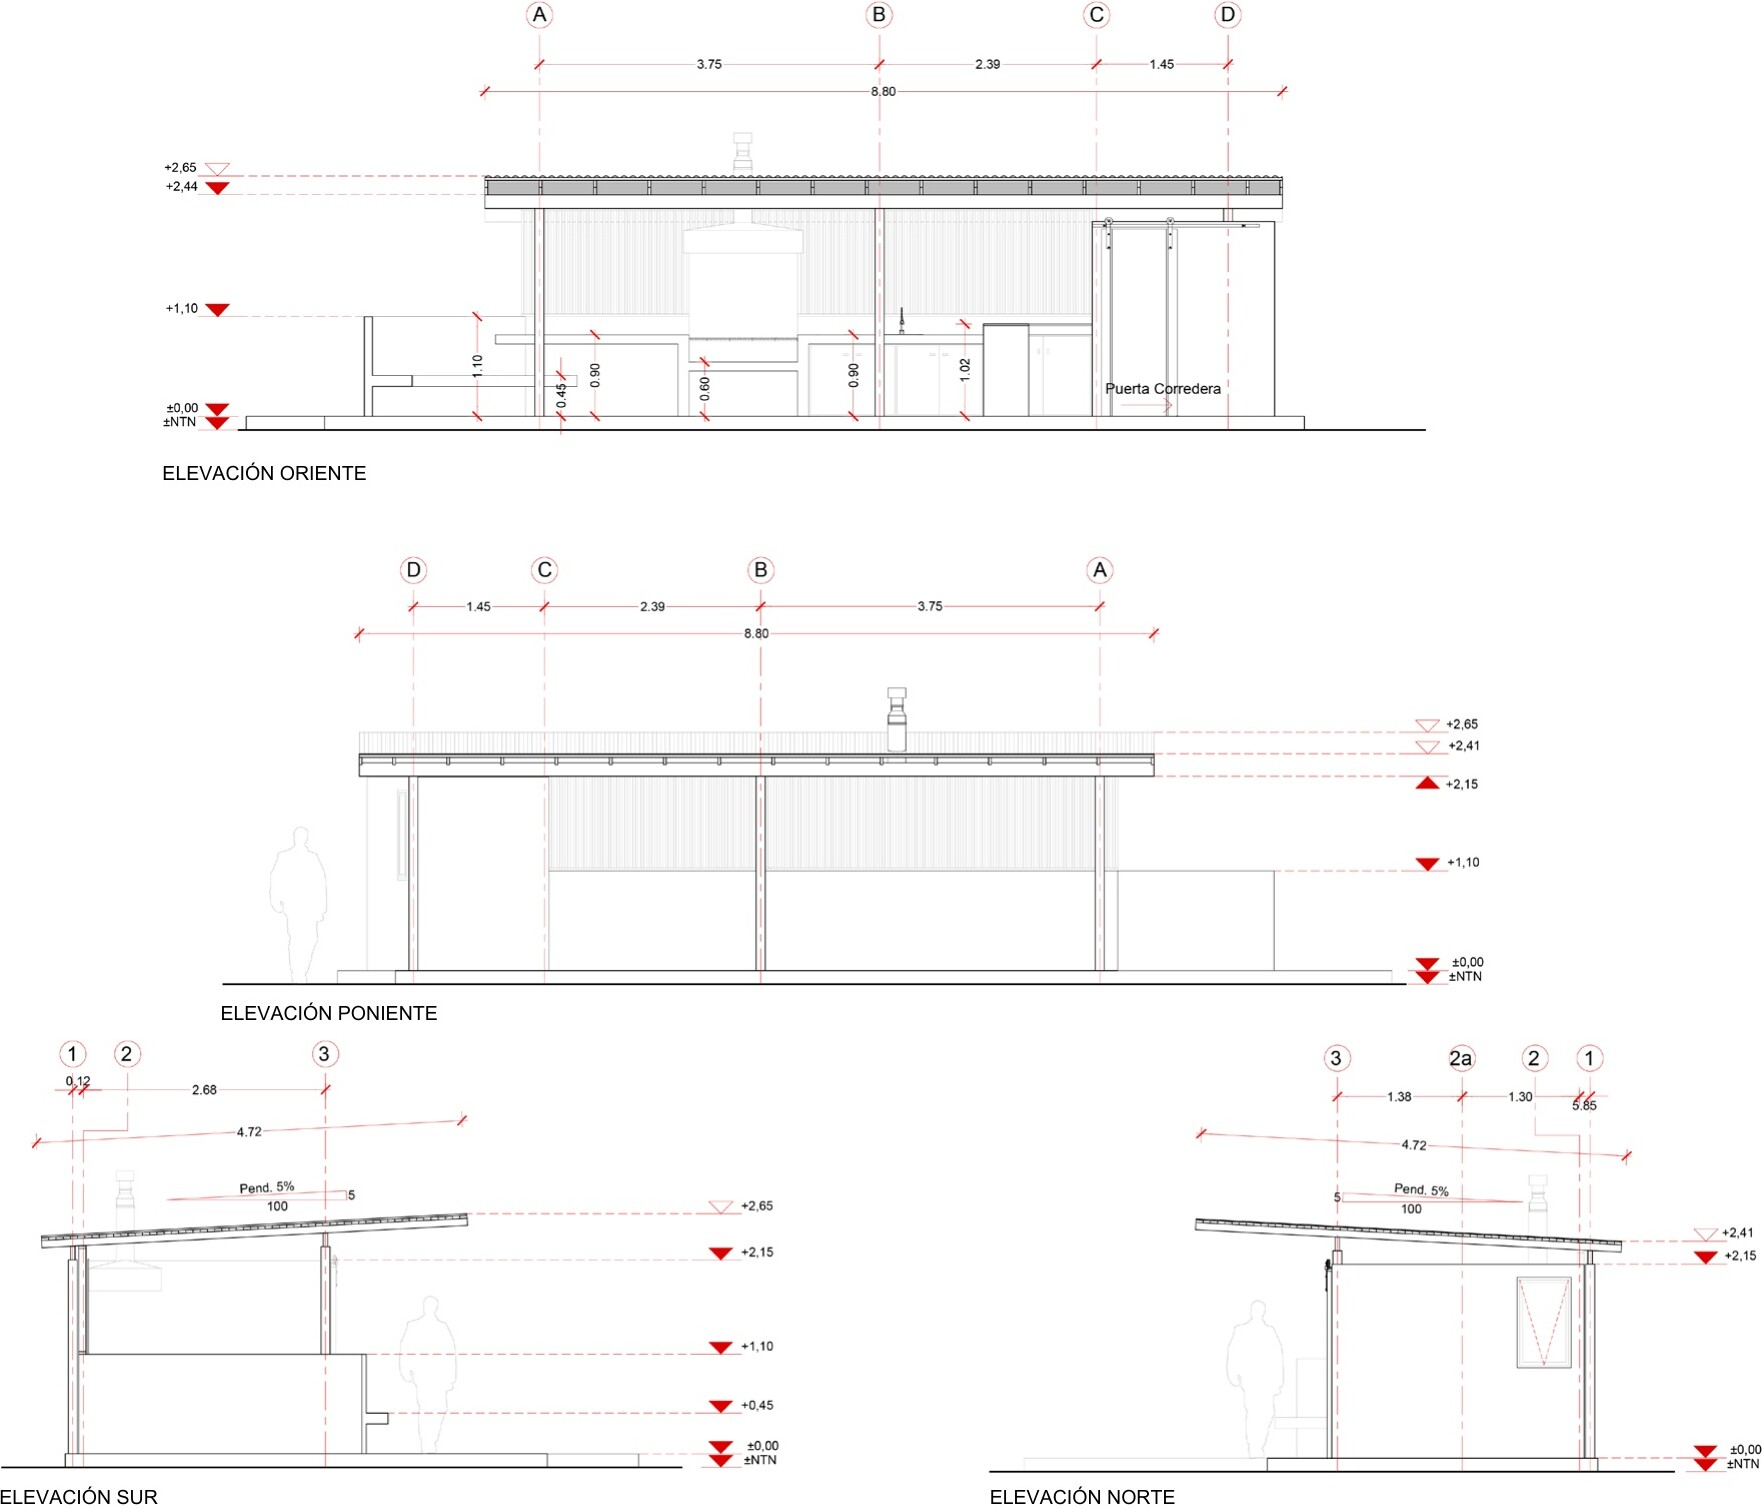
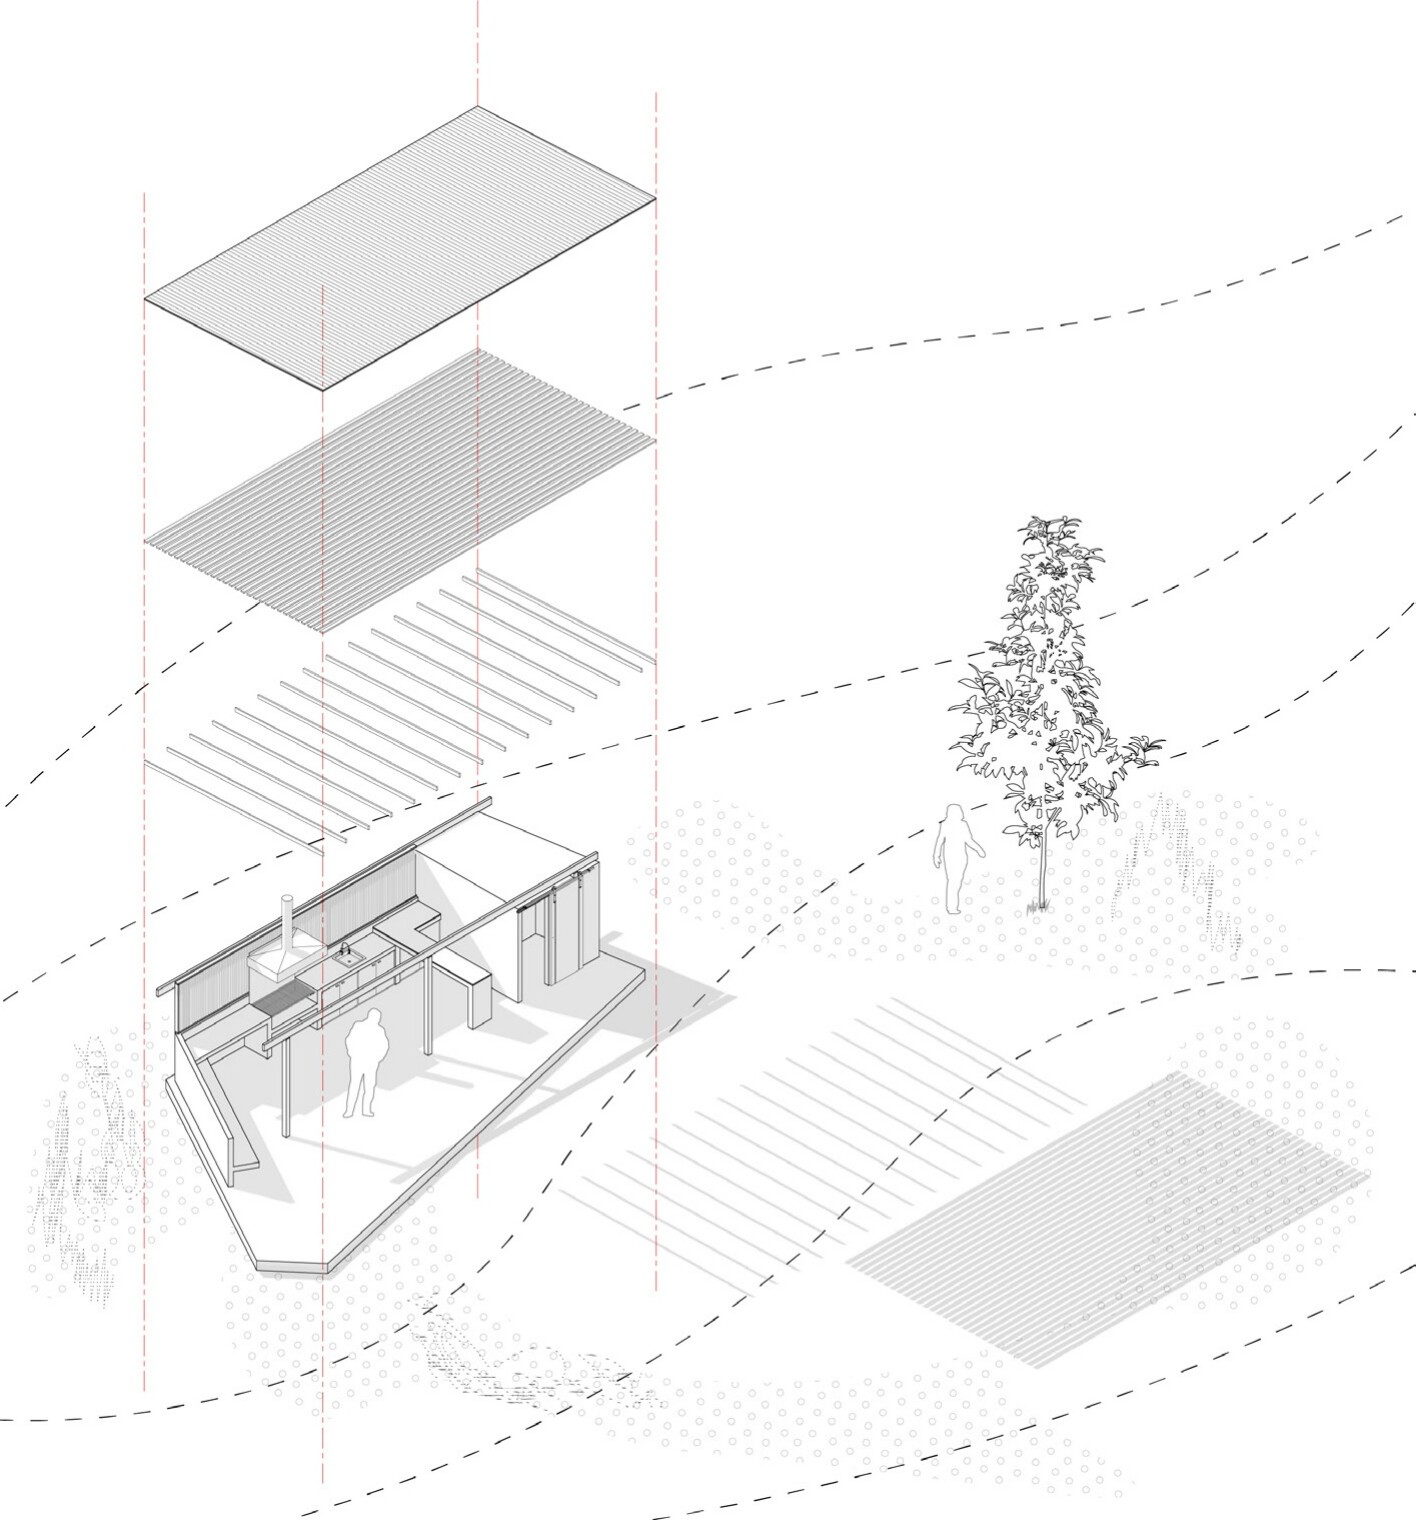
Quincho AC: añade dos renders
Claude-Session: https://claude.ai/code/session_01FmVd69kGBz5KSZfse9UPmy

diff --git a/js/data.js b/js/data.js
@@ -1,5 +1,5 @@
 // Versión del contenido: súbela (ej. "2") cada vez que reemplaces imágenes con el mismo nombre, para que los navegadores no muestren copias antiguas.
-window.SITE_VERSION = "9";
+window.SITE_VERSION = "11";
 // Contenido del portafolio. Para agregar un proyecto, copia un bloque y sube sus imágenes a /img/<slug>/.
 // "wide": imágenes (1, 2, ...) que ocupan todo el ancho en la galería. "n" es la cantidad de imágenes (01.jpg, 02.jpg, ...). Las descripciones son opcionales.
 window.PROJECTS = [
@@ -41,9 +41,9 @@ window.PROJECTS = [
     ar: {1: 1.558, 2: 1.762, 3: 1.791, 4: 1.549, 5: 0.939, 6: 0.946, 7: 1.46, 8: 0.743},
     text: ["Vivienda de dos niveles en Loanco, formada por volúmenes de madera y paños oscuros que se desplazan entre sí. Hacia el acceso, una galería con pérgola y vegetación suaviza el encuentro con el jardín.", "Se presentan plantas de ambos niveles, elevaciones, cortes, axonométrica y renders exteriores e interiores.", "Estructura de acero y metalcón.", "Proyecto realizado en conjunto con Victor Luarte. Obra construida."]
   },
-  { slug: "quincho-ac", title: "Quincho AC", type: "Habitacional · Quincho", n: 5,
-    rows: [[1, 2], [3], [4, 5]],
-    ar: {1: 1.182, 2: 0.932, 3: 1.576, 4: 1.168, 5: 1.083},
+  { slug: "quincho-ac", title: "Quincho AC", type: "Habitacional · Quincho", n: 7,
+    rows: [[1], [2], [3, 4], [5], [6, 7]],
+    ar: {1: 3.025, 2: 4.495, 3: 1.182, 4: 0.932, 5: 1.576, 6: 1.168, 7: 1.083},
     text: ["Quincho de planta poligonal irregular que se adapta a un terreno en pendiente, bajo una cubierta liviana inclinada.", "Se documenta con planta, elevaciones, cortes, axonométrica explotada y croquis volumétricos."]
   },
   {

diff --git a/index.html b/index.html
@@ -12,7 +12,7 @@
 <link rel="preconnect" href="https://fonts.googleapis.com">
 <link rel="preconnect" href="https://fonts.gstatic.com" crossorigin>
 <link href="https://fonts.googleapis.com/css2?family=Jost:wght@200;300;400&display=swap" rel="stylesheet">
-<link rel="stylesheet" href="css/style.css?v=9">
+<link rel="stylesheet" href="css/style.css?v=11">
 </head>
 <body>
 
@@ -42,7 +42,7 @@
   <div class="lb-count"></div>
 </div>
 
-<script src="js/data.js?v=9"></script>
-<script src="js/main.js?v=9"></script>
+<script src="js/data.js?v=11"></script>
+<script src="js/main.js?v=11"></script>
 </body>
 </html>
